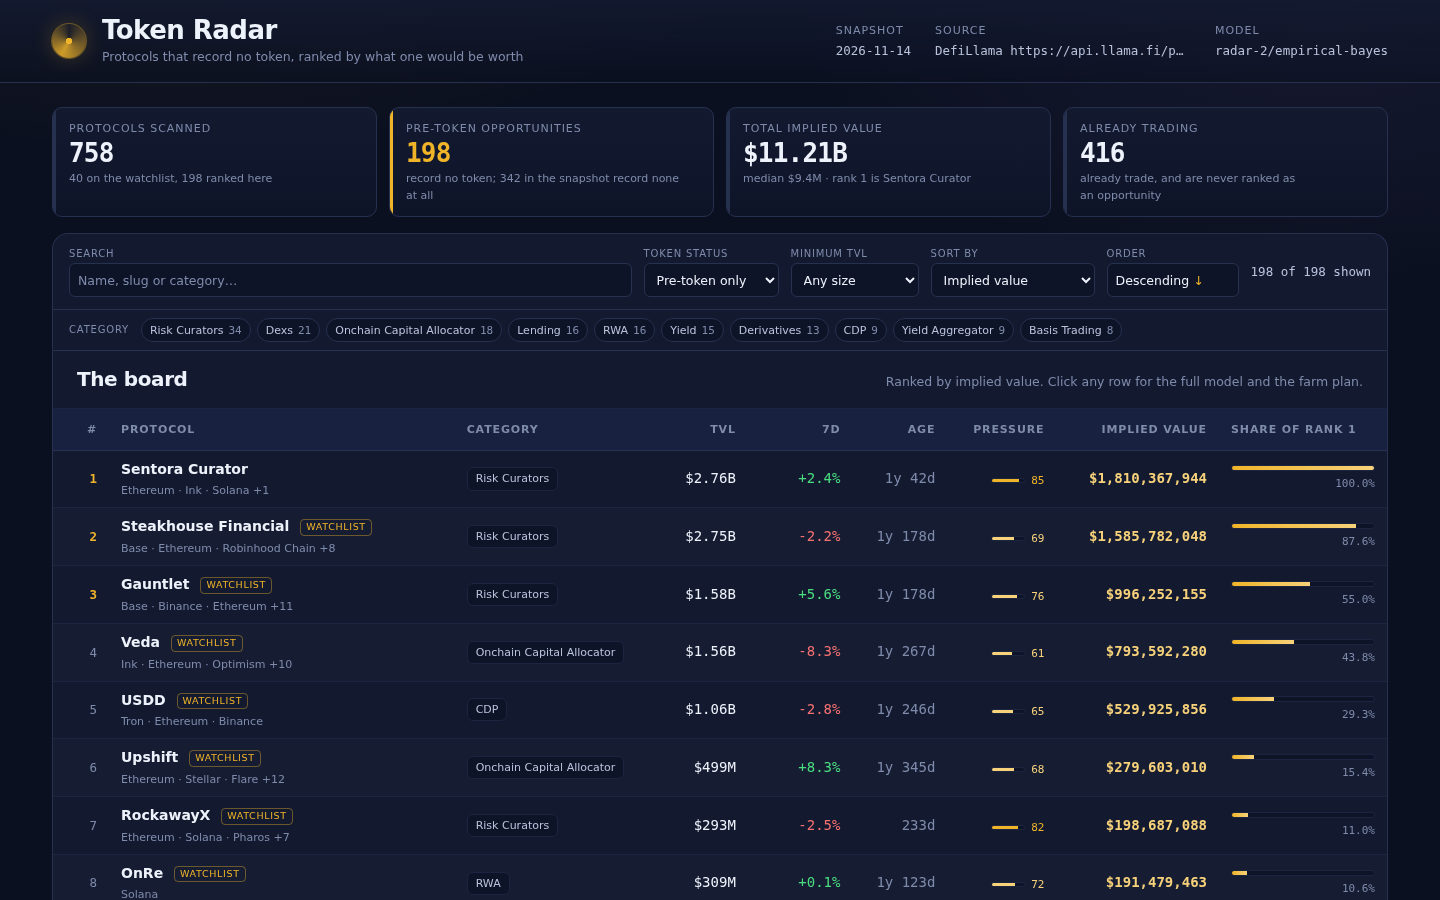
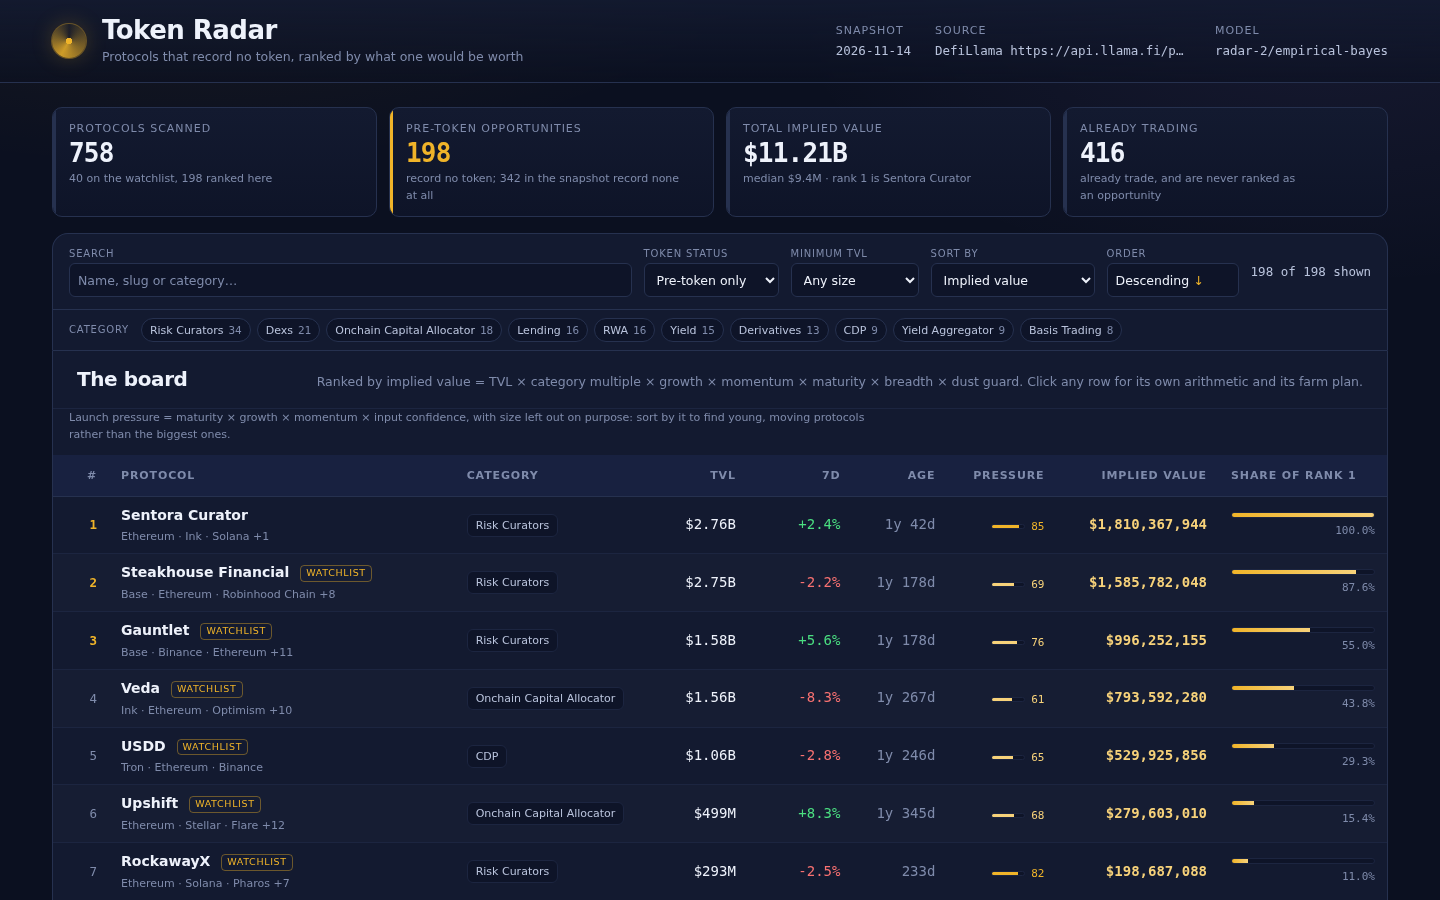
feat(dashboard): detail drawer pairs the record with its arithmetic, board shows slice summary, and the empty state no longer stacks under a populated table
- app.js: drawer reordered so THE RECORD and THE ARITHMETIC sit side by side and the farm plan follows; renderTable writes the slice summary (count, combined value, median, top row); plan_meta.action_class replaces the missing size_tier that rendered as undefined
- app.css: .method/.facts/.controls/.eq-total/.confidence styles; .empty[hidden] display:none so the no-match panel stops painting over a non-empty board
- index.html: structure aligned with the new panels
- tools/shoot.mjs: taller viewport for the detail scene so the factor chain resolves visibly
- screenshots: all four regenerated

diff --git a/dashboard/app.js b/dashboard/app.js
@@ -227,6 +227,7 @@
 
     document.getElementById('count').textContent =
       rows.length + ' of ' + rowsForStatus().length + ' shown';
+    renderSegment(rows);
 
     if (rows.length === 0) {
       tbody.innerHTML = '';
@@ -262,6 +263,27 @@
       );
     }
     tbody.innerHTML = html.join('');
+  }
+
+  // What the filters left, in one line: how many rows, their combined implied value and the
+  // median, so a narrowed board says what it is and not only how many rows it hides.
+  function renderSegment(rows) {
+    var host = document.getElementById('seg');
+    if (!host) return;
+    var ranked = rows.filter(function (r) { return r.tokenStatus !== 'live'; });
+    var total = 0;
+    var values = [];
+    for (var i = 0; i < ranked.length; i++) {
+      total += ranked[i].implied_value_usd;
+      values.push(ranked[i].implied_value_usd);
+    }
+    values.sort(function (a, b) { return a - b; });
+    var median = values.length === 0 ? 0 : values[Math.floor(values.length / 2)];
+    host.hidden = ranked.length === 0 || ranked.length === DATA.rows.length;
+    if (host.hidden) return;
+    host.innerHTML = '<b>' + ranked.length + '</b> protocols in this slice · <b>' + fmtUsd(total) +
+      '</b> combined implied value · median <b>' + fmtUsd(median) + '</b>' +
+      (ranked.length > 0 ? ' · top of the slice: <b>' + esc(ranked[0].name) + '</b>' : '');
   }
 
   // ---------------------------------------------------------------- render: histogram
@@ -311,7 +333,7 @@
       '</div>'
     );
 
-    body.push('<div class="d-section"><h3>The record</h3><dl class="facts">' +
+    var recordHtml = '<div class="d-section"><h3>The record</h3><dl class="facts">' +
       fact('TVL', fmtUsdExact(row.tvl_usd)) +
       fact('7-day change', fmtPct(row.change_7d)) +
       fact('Age without a token', isLive ? 'trades' : fmtAge(row.age_days)) +
@@ -319,38 +341,42 @@
       fact('Category', row.category || 'Unknown') +
       fact('Token status', isLive ? 'already trades' : 'records no token') +
       fact('House watchlist', isLive ? 'not applicable' : (row.on_watchlist ? 'yes, on it' : 'no, below or outside it')) +
-      '</dl></div>');
+      '</dl></div>';
 
+    var arithHtml = '';
     if (!isLive && row.factors) {
       var f = row.factors;
       var recomputed = recompute(row);
-      body.push('<div class="d-section"><h3>The arithmetic</h3><div class="equation">' +
+      arithHtml = '<div class="d-section"><h3>The arithmetic</h3><div class="equation">' +
         eqRow('TVL', 'the snapshot\'s own figure', '×1.000', fmtUsdExact(row.tvl_usd)) +
         eqRow('Category multiple', f.category_peers > 0 && f.category_observed !== null
           ? 'prior ' + f.category_prior.toFixed(2) + ' blended with ' + f.category_peers + ' live peers at ' + f.category_observed.toFixed(3)
           : 'written prior, no live peers in this category', fmtFactor(f.category_multiple), '') +
         eqRow('Growth factor', '7-day move clamped to ' + f.growth_clamped_pct.toFixed(1) + '%', fmtFactor(f.growth_factor), '') +
-        eqRow('Momentum factor', 'signed square root of the same move, so a bleed costs more than a flat week', fmtFactor(f.momentum_factor || 1), '') +
-        eqRow('Maturity factor', 'asymmetric log-normal bell on ' + (row.age_days === null ? 'an unknown age' : row.age_days + ' days'), fmtFactor(f.maturity_factor), '') +
+        eqRow('Momentum factor', 'signed square root of the same move', fmtFactor(f.momentum_factor || 1), '') +
+        eqRow('Maturity factor', 'asymmetric bell on ' + (row.age_days === null ? 'an unknown age' : row.age_days + ' days'), fmtFactor(f.maturity_factor), '') +
         eqRow('Breadth factor', (row.chains || []).length + ' chain' + ((row.chains || []).length === 1 ? '' : 's'), fmtFactor(f.breadth_factor), '') +
         eqRow('Dust guard', row.tvl_usd < 25000000 ? 'TVL under $25M, scaled down' : 'TVL above $25M, no penalty', fmtFactor(f.size_guard), '') +
         '<div class="eq-total"><span>Implied value</span><b>' + fmtUsdExact(row.implied_value_usd) + '</b></div>' +
       '</div>' +
-      '<p class="confidence-note" style="margin-top:12px">' + recomputeNote(row, recomputed) + '</p>' +
-      '</div>');
+      '<p class="confidence-note" style="margin-top:10px">' + recomputeNote(row, recomputed) + '</p>' +
+      '</div>';
+    }
+    body.push('<div class="d-cols">' + recordHtml + arithHtml + '</div>');
 
-      body.push('<div class="d-section"><h3>Confidence in the inputs</h3><div class="confidence">' +
-        '<div class="confidence-bar"><i style="width:' + row.confidence + '%"></i></div>' +
-        '<p class="confidence-note">' + row.confidence + '/100 — a known age, a reported 7-day move, several chains and a real TVL are what make the arithmetic trustworthy. This is confidence in the inputs, never in the price.</p>' +
-      '</div></div>');
-
-      body.push('<div class="d-section"><h3>Launch pressure · ' + row.pressure.toFixed(0) + '/100</h3><div class="confidence">' +
-        '<div class="confidence-bar"><i style="width:' + row.pressure.toFixed(0) + '%"></i></div>' +
-        '<p class="confidence-note">The timing-and-momentum part of the model, normalised against the board\'s most launch-ready row. ' +
-        'It is the maturity bell times the growth and momentum factors times the input confidence, with size left out on purpose: ' +
-        'a small protocol that is young and growing can out-score a large one that is old and flat. Sort the board by it to see the ' +
-        'protocols whose record is moving, not just the biggest ones.</p>' +
-      '</div></div>');
+    if (!isLive && row.plan && row.plan.length > 0) {
+      body.push('<div class="d-section"><h3>The farm plan · ' + row.plan.length + ' steps, each with its cost and its time</h3>' +
+        '<p class="confidence-note" style="margin-bottom:10px">Capital $' + row.plan_meta.capital_usd +
+        ' · hold ' + row.plan_meta.hold_days + ' days · ' + row.plan_meta.cadence_per_week +
+        ' qualifying action' + (row.plan_meta.cadence_per_week === 1 ? '' : 's') + ' a week · ' +
+        row.plan_meta.age_band + ' protocol · a ' + row.plan_meta.action_class + ' position</p>' +
+        '<ol class="steps">' + row.plan.map(function (s) {
+          return '<li data-kind="' + esc(s.kind) + '"><div>' +
+            '<p class="step-text">' + esc(s.text) + '</p>' +
+            '<div class="step-chips"><span class="chip-cost">' + esc(s.cost) + '</span>' +
+            '<span class="chip-time">' + esc(s.time) + '</span></div>' +
+          '</div></li>';
+        }).join('') + '</ol></div>');
     }
 
     if (isLive) {
@@ -360,19 +386,16 @@
         (row.market_multiple === null ? '—' : '×' + row.market_multiple.toFixed(3)) + ' against its TVL.</p></div>');
     }
 
-    if (!isLive && row.plan && row.plan.length > 0) {
-      body.push('<div class="d-section"><h3>The farm plan · ' + row.plan.length + ' steps</h3>' +
-        '<p class="confidence-note" style="margin-bottom:12px">Capital $' + row.plan_meta.capital_usd +
-        ' · hold ' + row.plan_meta.hold_days + ' days · ' + row.plan_meta.cadence_per_week +
-        ' qualifying action' + (row.plan_meta.cadence_per_week === 1 ? '' : 's') + ' a week · ' +
-        row.plan_meta.age_band + ' protocol · ' + row.plan_meta.size_tier + ' TVL tier</p>' +
-        '<ol class="steps">' + row.plan.map(function (s) {
-          return '<li data-kind="' + esc(s.kind) + '"><div>' +
-            '<p class="step-text">' + esc(s.text) + '</p>' +
-            '<div class="step-chips"><span class="chip-cost">' + esc(s.cost) + '</span>' +
-            '<span class="chip-time">' + esc(s.time) + '</span></div>' +
-          '</div></li>';
-        }).join('') + '</ol></div>');
+    if (!isLive && row.factors) {
+      body.push('<div class="d-cols">' +
+        '<div class="d-section"><h3>Confidence in the inputs · ' + row.confidence + '/100</h3><div class="confidence">' +
+        '<div class="confidence-bar"><i style="width:' + row.confidence + '%"></i></div>' +
+        '<p class="confidence-note">A known age, a reported 7-day move, several chains and a real TVL are what make the arithmetic trustworthy. This is confidence in the inputs, never in the price.</p>' +
+        '</div></div>' +
+        '<div class="d-section"><h3>Launch pressure · ' + row.pressure.toFixed(0) + '/100</h3><div class="confidence">' +
+        '<div class="confidence-bar"><i style="width:' + row.pressure.toFixed(0) + '%"></i></div>' +
+        '<p class="confidence-note">The timing-and-momentum part of the model, normalised against the board\'s most launch-ready row: the maturity bell times growth and momentum times input confidence, with size left out on purpose.</p>' +
+        '</div></div></div>');
     }
 
     document.getElementById('drawer-body').innerHTML = body.join('');

diff --git a/dashboard/app.css b/dashboard/app.css
@@ -178,6 +178,11 @@ button { cursor: pointer; }
 .toggle { min-width: 132px; text-align: left; }
 .toggle[aria-pressed="true"]::after { content: " ↓"; color: var(--amber); }
 .toggle[aria-pressed="false"]::after { content: " ↑"; color: var(--amber); }
+/* The one-line summary of what the filters left. */
+.seg { grid-column: 1 / -1; margin: 0; padding-top: var(--s2); border-top: 1px solid var(--line-soft);
+  color: var(--ink-2); font-size: var(--t-sm); }
+.seg b { color: var(--ink); }
+.legend { margin: 0; padding: 0 var(--s4) var(--s3); color: var(--ink-3); font-size: var(--t-xs); max-width: 120ch; }
 .count {
   margin-left: auto; align-self: center;
   font-family: var(--font-num); font-size: var(--t-sm); color: var(--ink-2);
@@ -314,6 +319,7 @@ tr:nth-child(-n+3) .rank { color: var(--amber); font-weight: 600; }
   padding: var(--s8) var(--s5); text-align: center;
   display: grid; gap: var(--s3); justify-items: center;
 }
+.empty[hidden] { display: none; }
 .empty-title { font-size: var(--t-md); font-weight: 600; }
 .empty p { color: var(--ink-3); }
 .button {
@@ -373,7 +379,7 @@ tr:nth-child(-n+3) .rank { color: var(--amber); font-weight: 600; }
 
 .drawer {
   position: fixed; inset: 0 0 0 auto; z-index: 30;
-  width: min(620px, 94vw);
+  width: min(900px, 96vw);
   background: var(--canvas-2);
   border-left: 1px solid var(--line);
   box-shadow: var(--shadow);
@@ -400,7 +406,13 @@ tr:nth-child(-n+3) .rank { color: var(--amber); font-weight: 600; }
 }
 .close:hover { border-color: var(--ink-3); color: var(--ink); }
 
-.d-section { margin-top: var(--s5); }
+.d-section { margin-top: var(--s4); }
+/* Two columns inside the drawer: the record beside the arithmetic, so a reader sees the
+   factors and the number they produce without scrolling. */
+.d-cols { display: grid; grid-template-columns: minmax(0, 1fr) minmax(0, 1.05fr); gap: var(--s4); align-items: start; }
+.d-cols .facts { grid-template-columns: 1fr; }
+.d-cols .d-section { margin-top: var(--s4); }
+@media (max-width: 820px) { .d-cols { grid-template-columns: 1fr; } }
 .d-section > h3 {
   font-size: var(--t-xs); text-transform: uppercase; letter-spacing: 0.1em;
   color: var(--ink-3); margin-bottom: var(--s3);

diff --git a/dashboard/index.html b/dashboard/index.html
@@ -91,6 +91,7 @@
       <button id="dir" type="button" class="toggle" aria-pressed="true" title="Toggle ascending or descending (press D)">Descending</button>
     </div>
     <p class="count" id="count" role="status" aria-live="polite">—</p>
+    <p class="seg" id="seg" hidden></p>
   </section>
 
   <section class="chips" aria-label="Category filter">
@@ -102,8 +103,9 @@
   <section class="board-panel" id="board" tabindex="-1">
     <div class="board-head">
       <h2 id="board-title">The board</h2>
-      <p class="board-note" id="board-note">Ranked by implied value. Click any row for the full model and the farm plan.</p>
+      <p class="board-note" id="board-note">Ranked by implied value = TVL × category multiple × growth × momentum × maturity × breadth × dust guard. Click any row for its own arithmetic and its farm plan.</p>
     </div>
+    <p class="legend">Launch pressure = maturity × growth × momentum × input confidence, with size left out on purpose: sort by it to find young, moving protocols rather than the biggest ones.</p>
     <div class="table-wrap">
       <table id="table">
         <thead>
